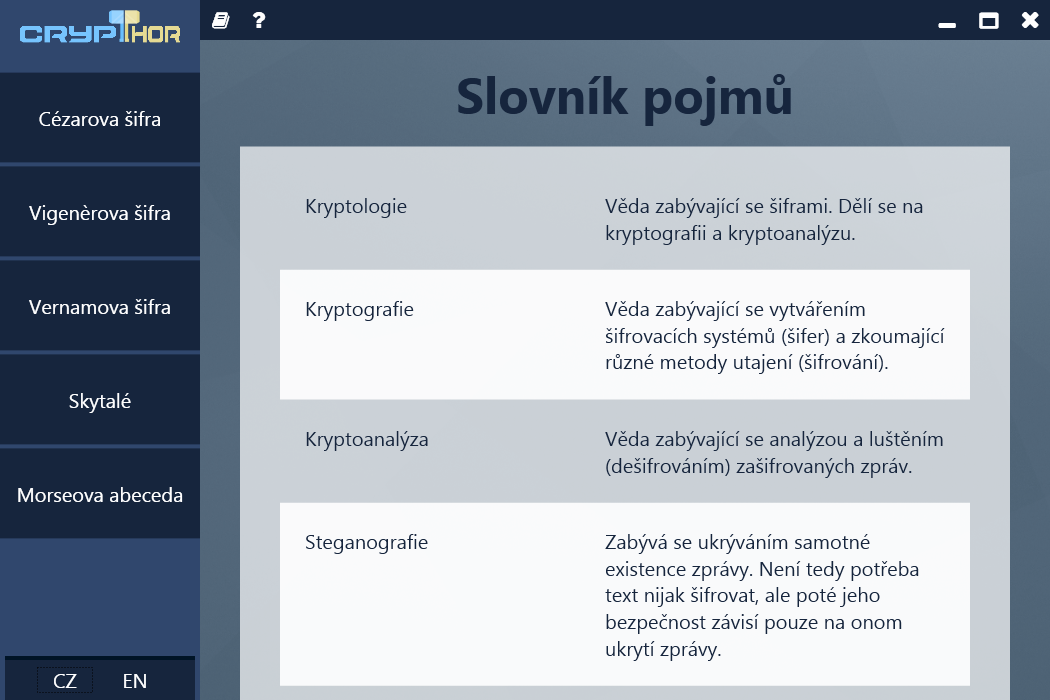
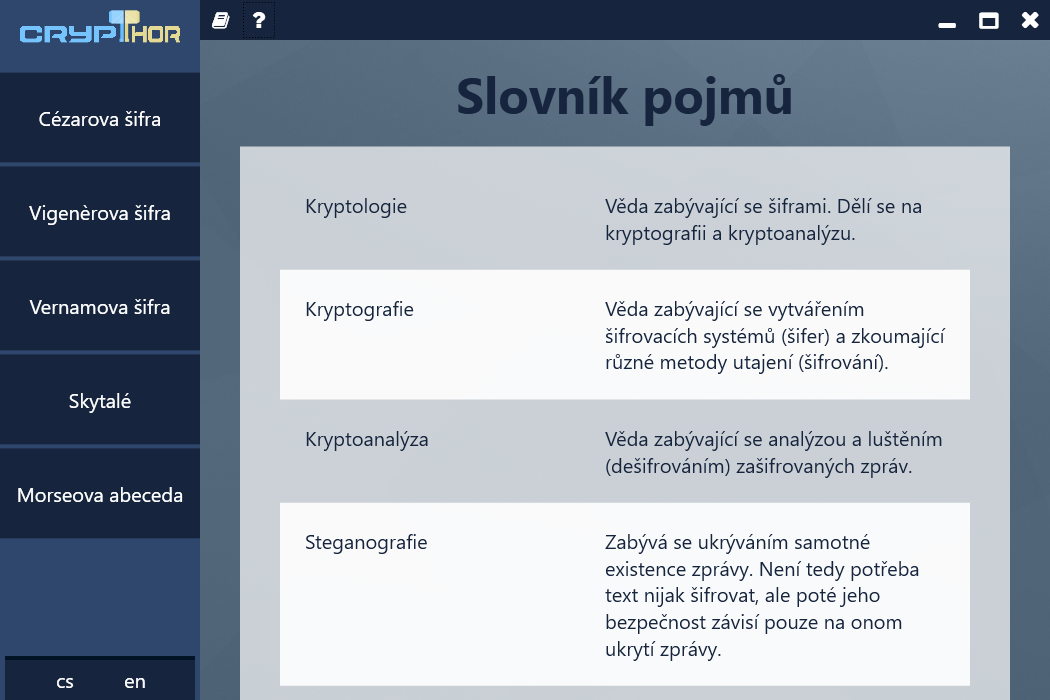
fix wrong language codes

diff --git a/MainWindow.xaml b/MainWindow.xaml
@@ -54,9 +54,9 @@
 
                 <Grid Background="#16253D">
                     <StackPanel Orientation="Horizontal" HorizontalAlignment="Center" Style="{StaticResource Nav-lang}">
-                        <Button Content="CZ" Width="60" Height="Auto" Margin="5" Click="Btn_Click_Cs"/>
+                        <Button Content="cs" Width="60" Height="Auto" Margin="5" Click="Btn_Click_Cs"/>
 
-                        <Button Content="EN" Width="60" Height="30" Margin="5" Click="Btn_Click_En"/>
+                        <Button Content="en" Width="60" Height="30" Margin="5" Click="Btn_Click_En"/>
                     </StackPanel>
                 </Grid>
             </StackPanel>
